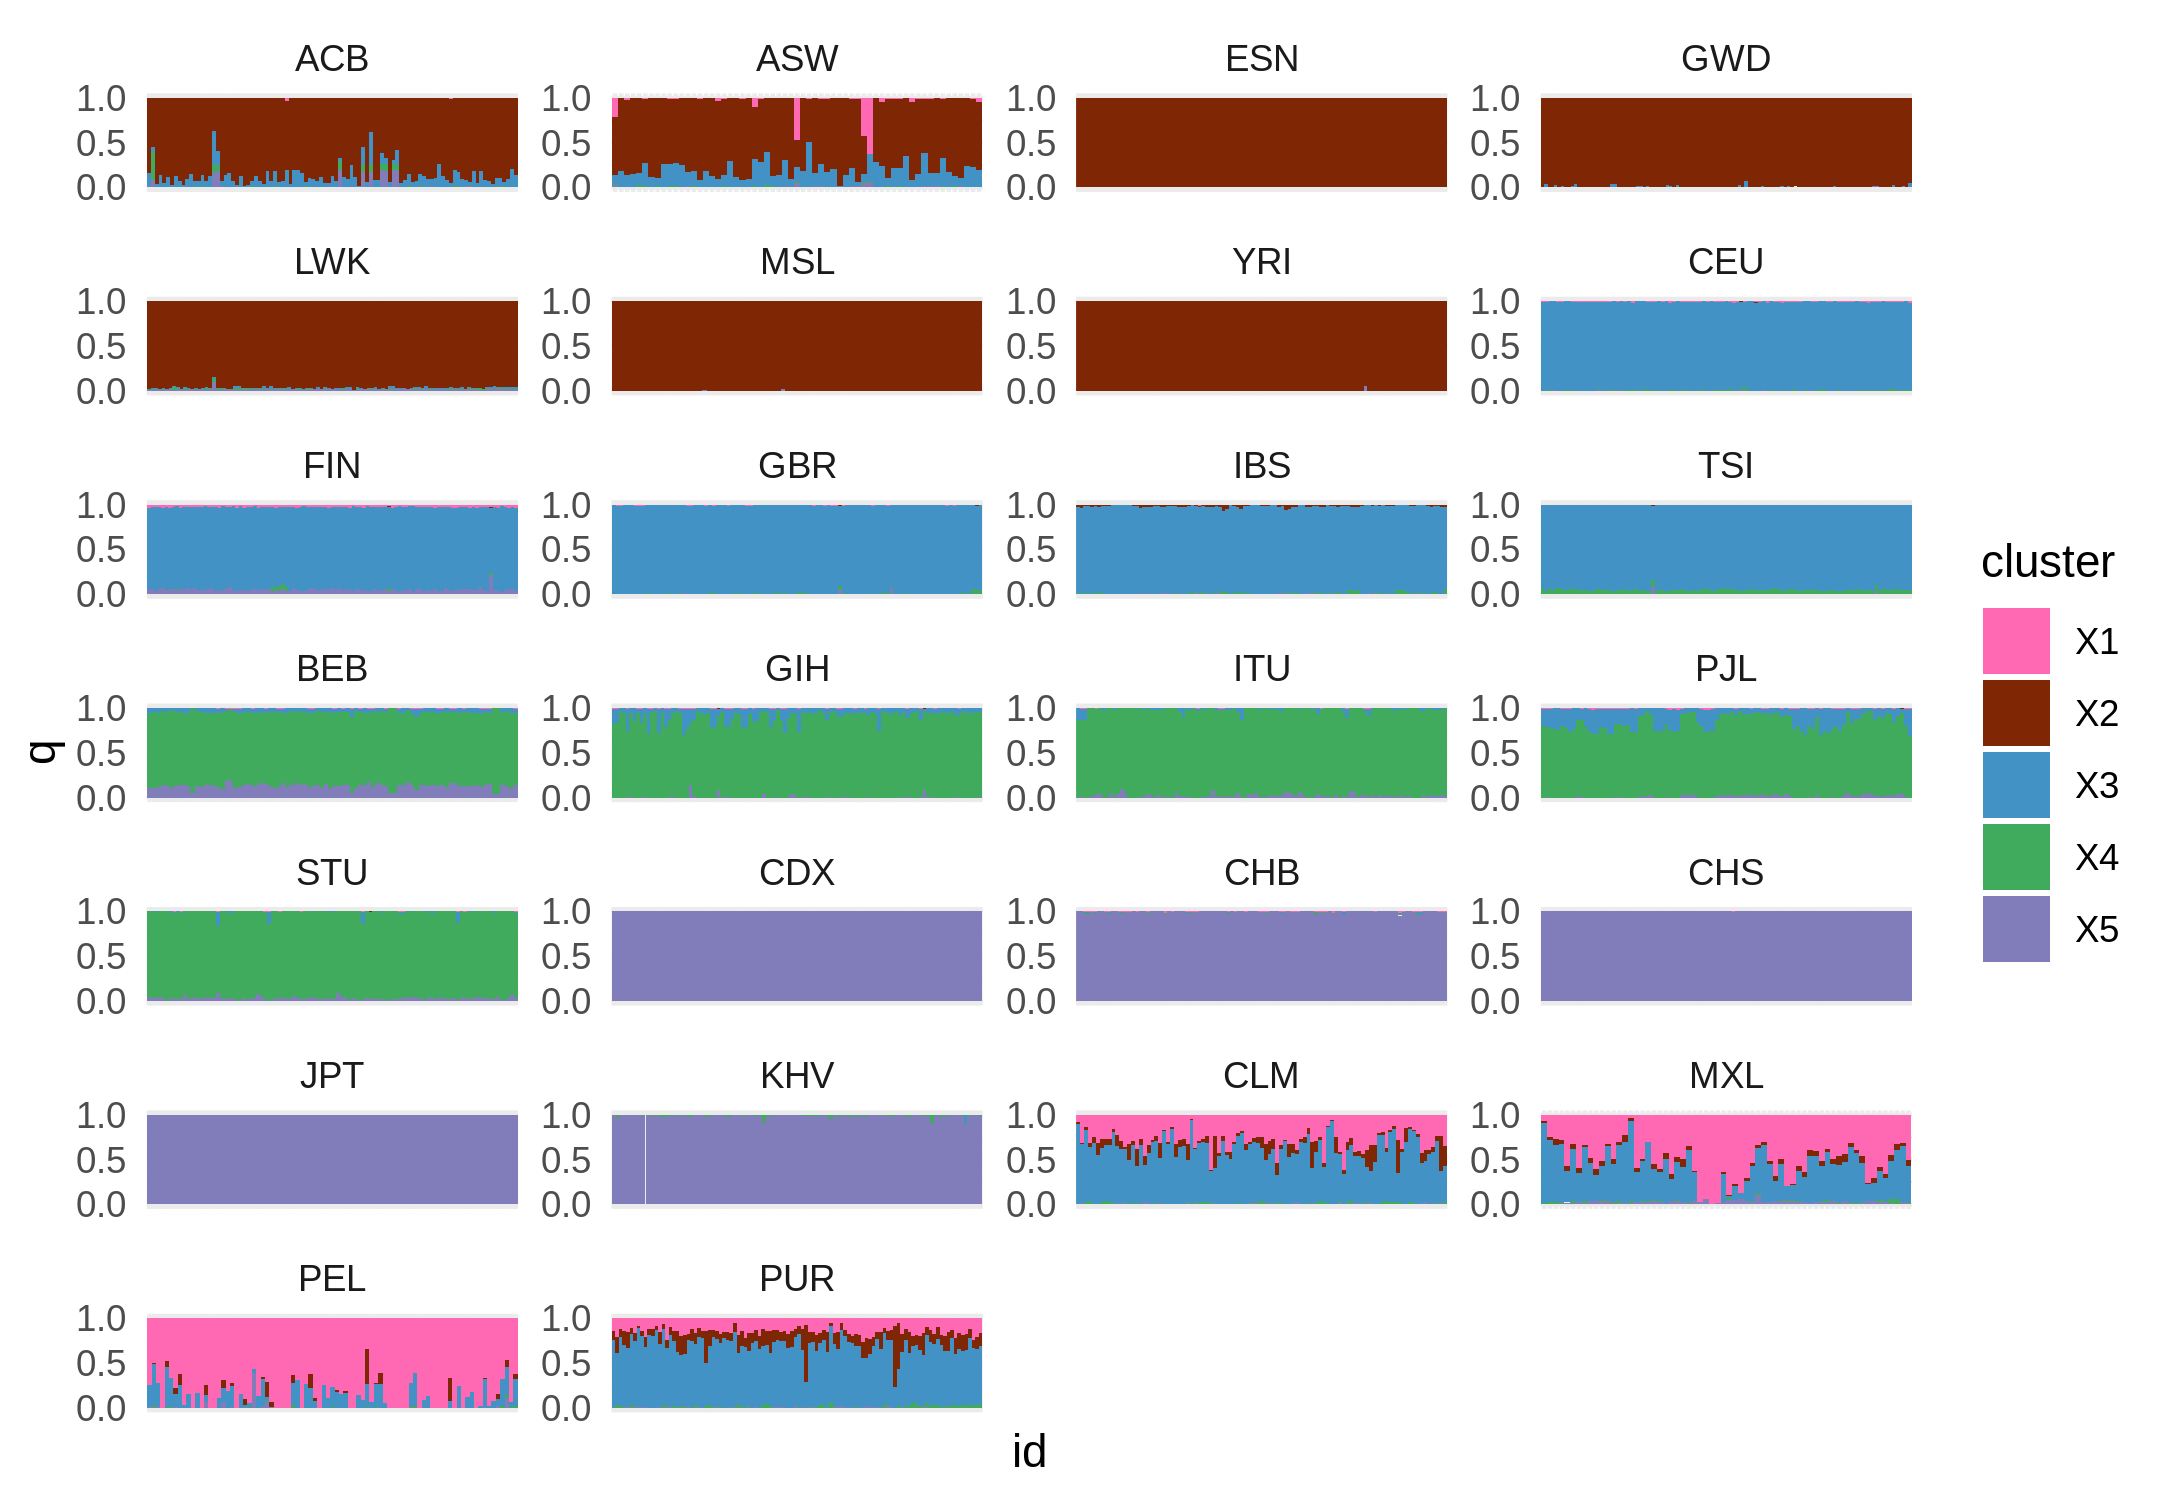
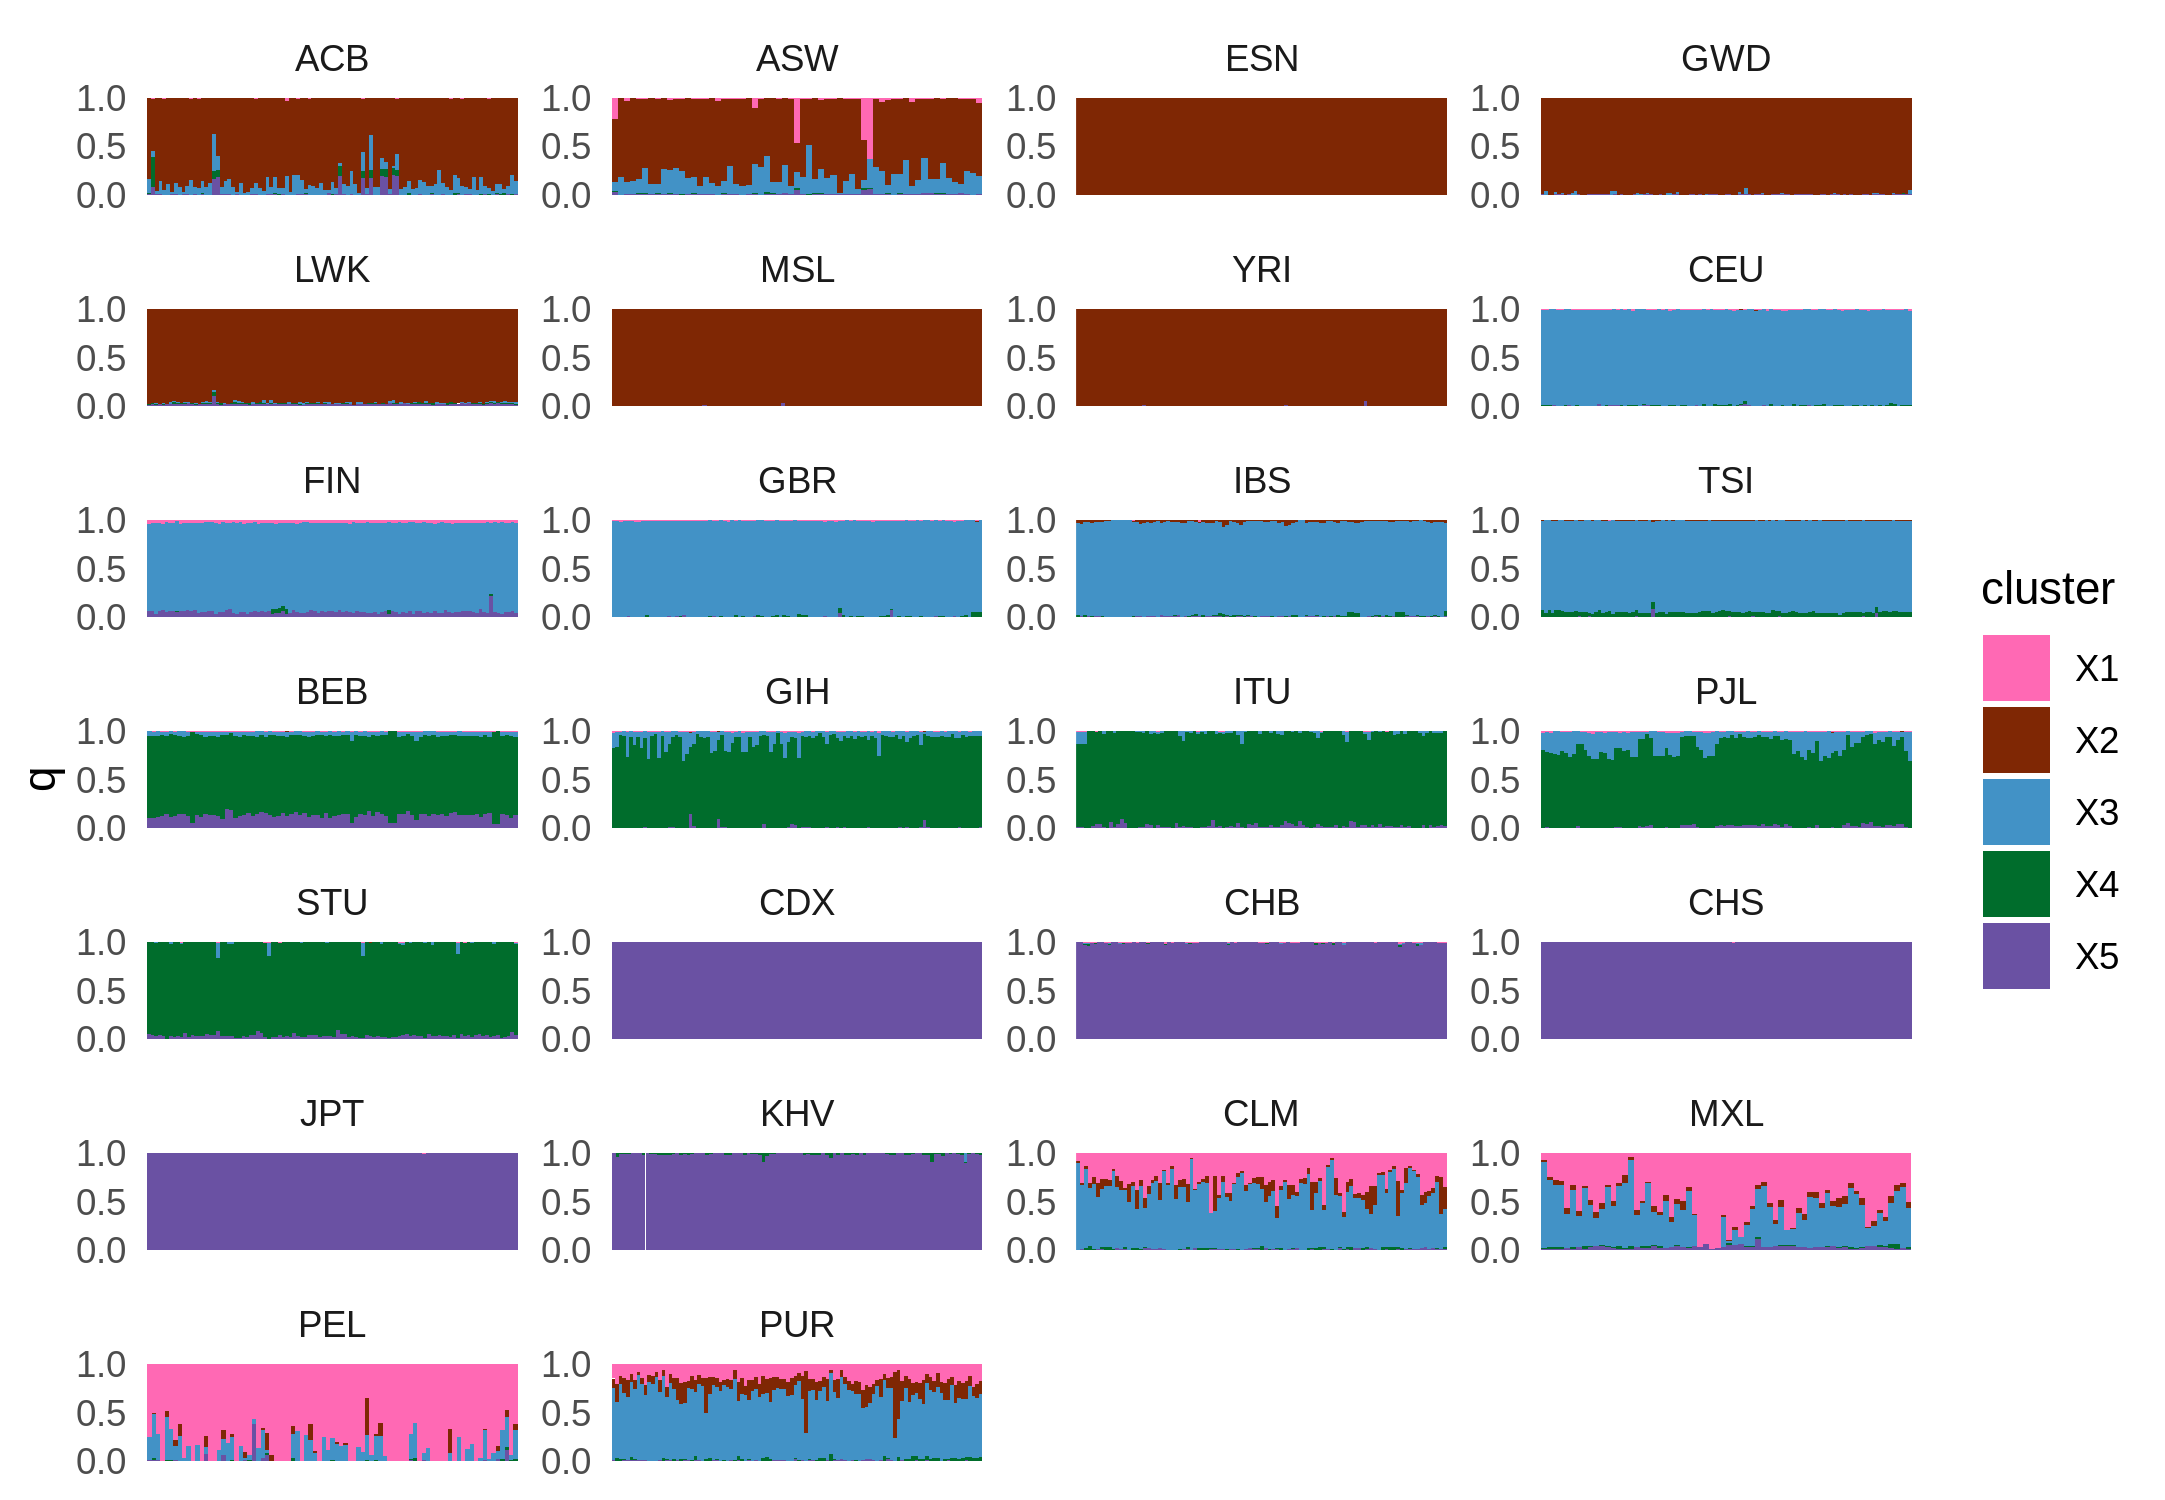
add admixture plot

Changed region(s): [[0.0, 0.3067, 0.9903, 0.9813], [0.0309, 0.092, 0.8975, 0.276]]

diff --git a/README.md b/README.md
@@ -184,6 +184,15 @@ In fact, separation of populations in 5 cluster makes sense:
 Next, I asked ADMIXTURE to project the MGB biobank onto the 1000 Genomes
 reference in order to determine the ancestry proportions in MGB biobank.
 
+The results don’t make sense. All individuals seem to be admixed,
+including a almost constant proportion of South Asian ancestry.
+
+Is this share ancestry with EUR that are being marked as SAS?
+
+Run ADMIXTURE with 3 parental populations only?
+
+<img src="./plots/admixture_mgb.png" width="2165" />
+
 ### 2.5. TO DO:
 
 -   select SLE variants from Langefeld et al. (2017);
